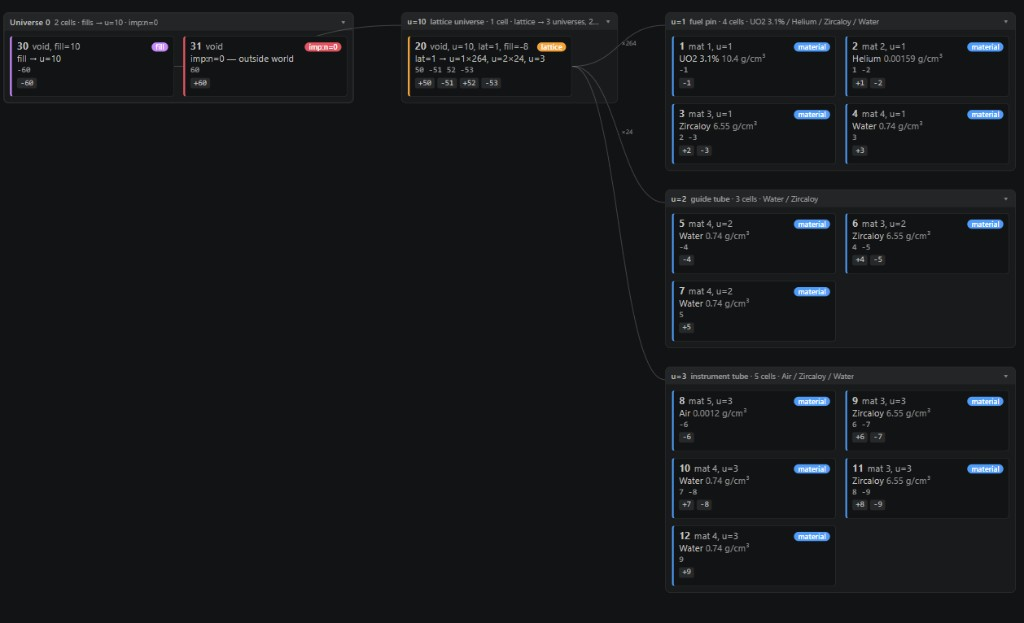
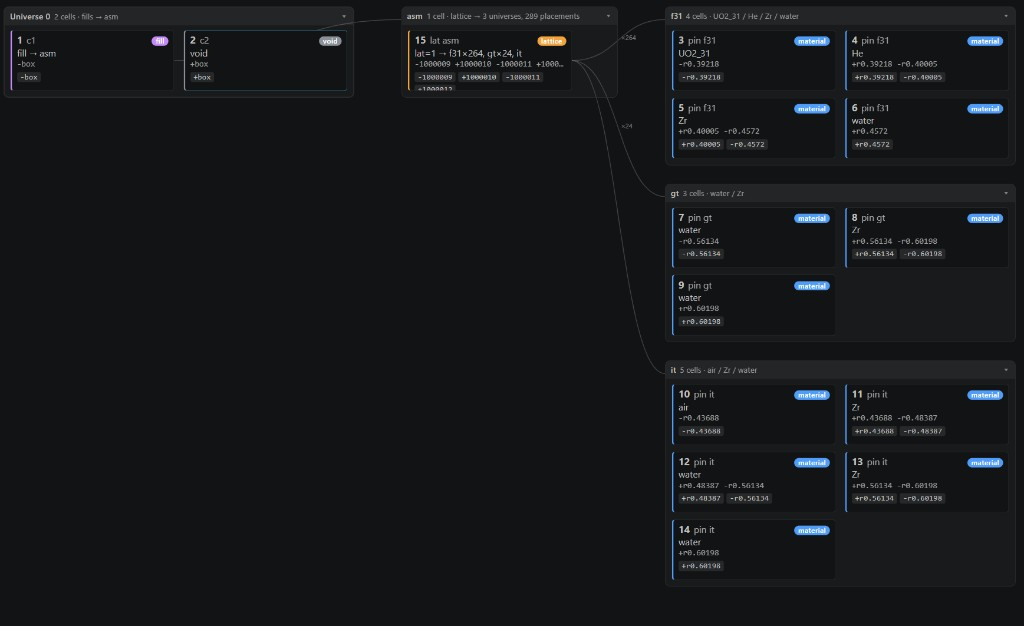
1.4.6: OpenMC exact baffle corners; right-click Results Viewer
The OpenMC Python 3D path still synthesized baffle plates from the
fuel-adjacency heuristic (X/T corner crossings on BEAVRS). Plates now
come from the _baffle(name, region) XPlane/YPlane halfspaces of the
programmatic core resolver, clamped to the lattice element like the
MCNP/Serpent/SCONE exact path; all four codes emit the identical
76-plate ring (baffleExact test extended to OpenMC).

New owen.openResultsFile command: right-click a run output (mctal,
outp and letter-bumped reruns, statepoint*.h5, Serpent _res/_his/_det
.m, .out) in the Explorer or editor to open it in the Results Viewer.

Also refreshes media/demo-cell-map.png (Cell Map screenshot).

diff --git a/src/preview/codes/openmc.ts b/src/preview/codes/openmc.ts
@@ -18,7 +18,10 @@
 import { CylinderSpec, Component, ComponentId, ParseResult, FidelityOptions, FidelityState } from '../types';
 import { componentColor, emitLayers, extractNumbers, materialColor, resolveDetail } from '../palette';
 import { planRender, DEFAULT_MAX_INSTANCES } from '../budget';
-import { BaffleNeighborhood, baffleBox, bafflePlates, emitOpenmcRadialStructure } from '../radialStructure';
+import {
+    BaffleNeighborhood, PlateConstraint, PlateRect, baffleBox, bafflePlates,
+    bafflePlatesFromRects, emitOpenmcRadialStructure, plateRectFromConstraints,
+} from '../radialStructure';
 import { buildOpenmcShellScene } from './openmcShells';
 import { looksLikeOpenmcXml, openmcMaterialLookup, parseOpenmcGeometryXml } from '../openmcGeometry';
 import { buildCsgScene } from '../csgScene';
@@ -409,6 +412,22 @@ export function parseOpenmc(text: string, opts?: FidelityOptions): ParseResult {
                 const x = x0 + c * px;
                 const y = y0 - r * py;
                 if (child.kind === 'structure' && child.subtype === 'baffle') {
+                    if (child.plates) {
+                        // Exact rectangles from the deck's own plane halfspaces
+                        // (the heuristic below drew X/T crossings at corners).
+                        const rects: PlateRect[] = [];
+                        for (const cons of child.plates) {
+                            const rect = plateRectFromConstraints(cons, px / 2, py / 2);
+                            if (rect) rects.push(rect);
+                        }
+                        if (rects.length > 0) {
+                            cylinders.push(...bafflePlatesFromRects(
+                                `${label}_r${r}c${c}_baffle`, x, y, rects,
+                                { height: collapsedHeight, zCenter: collapsedZ },
+                            ));
+                            continue;
+                        }
+                    }
                     const nb: BaffleNeighborhood = {
                         east: isAsm(r, c + 1), west: isAsm(r, c - 1),
                         north: isAsm(r - 1, c), south: isAsm(r + 1, c),
@@ -1297,7 +1316,17 @@ interface ResolvedLattice {
     lowerLeft: [number, number] | null;
 }
 interface ResolvedSkip { kind: 'skip'; }
-interface ResolvedStructure { kind: 'structure'; subtype: 'baffle' | 'other'; }
+interface ResolvedStructure {
+    kind: 'structure';
+    subtype: 'baffle' | 'other';
+    /**
+     * Exact steel-plate halfspaces read from the deck's `_baffle(name, region)`
+     * region (one constraint list per union term). Present when the region is
+     * a pure ±XPlane/±YPlane expression; placement then draws the deck's own
+     * rectangles instead of the neighborhood heuristic (the X/T corner bug).
+     */
+    plates?: PlateConstraint[][];
+}
 type ResolvedNode = ResolvedPin | ResolvedLattice | ResolvedSkip | ResolvedStructure;
 
 interface AssemblyFn {
@@ -1319,6 +1348,8 @@ interface Scope {
     rectLats: Set<string>;
     latUniverses: Map<string, string>;
     asmFns: Map<string, AssemblyFn>;
+    /** X/Y plane variables (`_bxp = openmc.XPlane(8.36662)`) for exact baffles. */
+    planes: Map<string, { axis: 'x' | 'y'; d: number }>;
     memo: Map<string, ResolvedNode>;
 }
 
@@ -1512,7 +1543,80 @@ function buildScope(text: string): Scope {
         });
     }
 
-    return { text, dicts, vars, rectLats, latUniverses, asmFns, memo: new Map() };
+    // X/Y plane variables anywhere in the file (several share a line in the
+    // BEAVRS deck: `_bxp = openmc.XPlane(8.36662);   _bxm = openmc.XPlane(-…)`).
+    const planes = new Map<string, { axis: 'x' | 'y'; d: number }>();
+    for (const m of text.matchAll(
+        /([A-Za-z_]\w*)\s*=\s*openmc\.([XY])Plane\s*\(\s*(?:[xy]0\s*=\s*)?(-?(?:\d+\.?\d*|\.\d+)(?:[eE][-+]?\d+)?)/g,
+    )) {
+        planes.set(m[1], { axis: m[2] === 'X' ? 'x' : 'y', d: Number(m[3]) });
+    }
+
+    return { text, dicts, vars, rectLats, latUniverses, asmFns, planes, memo: new Map() };
+}
+
+/** Splits on a single-character operator at bracket depth 0 (quotes respected). */
+function splitTopLevelOn(s: string, sep: string): string[] {
+    const out: string[] = [];
+    let depth = 0;
+    let quote = '';
+    let start = 0;
+    for (let i = 0; i < s.length; i++) {
+        const ch = s[i];
+        if (quote) { if (ch === quote && s[i - 1] !== '\\') quote = ''; continue; }
+        if (ch === '"' || ch === "'") { quote = ch; continue; }
+        if (ch === '[' || ch === '{' || ch === '(') depth++;
+        else if (ch === ']' || ch === '}' || ch === ')') depth--;
+        else if (ch === sep && depth === 0) { out.push(s.slice(start, i)); start = i + 1; }
+    }
+    out.push(s.slice(start));
+    return out;
+}
+
+/**
+ * Parses a baffle steel region — a union (`|`) of intersections (`&`) of
+ * signed plane halfspaces like `(+_bxM & -_bxm & -_byP) | (+_byp & …)` — into
+ * one PlateConstraint list per union term. Null when any atom is not a named
+ * X/Y plane, in which case the caller keeps the neighborhood heuristic.
+ */
+function planeRegionTerms(
+    expr: string,
+    planes: Map<string, { axis: 'x' | 'y'; d: number }>,
+): PlateConstraint[][] | null {
+    const terms: PlateConstraint[][] = [];
+    for (const rawTerm of splitTopLevelOn(expr, '|')) {
+        let term = rawTerm.trim();
+        while (term.startsWith('(') && findMatching(term, 0) === term.length - 1) {
+            term = term.slice(1, -1).trim();
+        }
+        const cons: PlateConstraint[] = [];
+        for (const atom of splitTopLevelOn(term, '&')) {
+            const m = atom.trim().match(/^([+-])\s*([A-Za-z_]\w*)$/);
+            if (!m) return null;
+            const p = planes.get(m[2]);
+            if (!p) return null;
+            cons.push({ axis: p.axis, sense: m[1] === '+' ? 1 : -1, d: p.d });
+        }
+        if (cons.length === 0) return null;
+        terms.push(cons);
+    }
+    return terms.length ? terms : null;
+}
+
+/**
+ * A baffle structure node. When `expr` is a `_baffle(name, region)` call whose
+ * region is plane-only, the node carries the exact plate constraints.
+ */
+function baffleNode(expr: string | undefined, scope: Scope): ResolvedStructure {
+    const node: ResolvedStructure = { kind: 'structure', subtype: 'baffle' };
+    if (!expr) return node;
+    const call = expr.trim().match(/^([A-Za-z_]\w*)\s*\(([\s\S]*)\)$/);
+    if (!call || !/baffle/i.test(call[1])) return node;
+    const args = splitTopLevel(call[2]);
+    if (args.length < 2) return node;
+    const terms = planeRegionTerms(args[1].trim(), scope.planes);
+    if (terms) node.plates = terms;
+    return node;
 }
 
 /** First top-level `:` in a dict-entry string (respects brackets/quotes). */
@@ -1673,7 +1777,7 @@ function resolveExpr(expr: string, scope: Scope, depth: number): ResolvedNode {
     const sub = t.match(/^([A-Za-z_]\w*)\s*\[\s*['"]([^'"]+)['"]\s*\]$/);
     if (sub && scope.dicts.has(sub[1])) {
         if (/^(BAF|baf)$/i.test(sub[1])) {
-            result = { kind: 'structure', subtype: 'baffle' };
+            result = baffleNode(scope.dicts.get(sub[1])!.get(sub[2]), scope);
         } else {
             const d = scope.dicts.get(sub[1])!;
             if (d.has(sub[2])) result = resolveExpr(d.get(sub[2])!, scope, depth + 1);
@@ -1688,7 +1792,7 @@ function resolveExpr(expr: string, scope: Scope, depth: number): ResolvedNode {
         if (call && scope.asmFns.has(call[1])) {
             result = resolveAssemblyCall(call[1], splitTopLevel(call[2]), scope) ?? { kind: 'skip' };
         } else if (call && /_baffle/i.test(call[1])) {
-            result = { kind: 'structure', subtype: 'baffle' };
+            result = baffleNode(t, scope);
         } else if (/^[A-Za-z_]\w*$/.test(t)) {
             // Bare identifier: a RectLattice, another variable, or a leaf pin.
             if (scope.rectLats.has(t) && scope.latUniverses.has(t)) {

diff --git a/src/test/suite/baffleExact.test.ts b/src/test/suite/baffleExact.test.ts
@@ -4,7 +4,8 @@
 // the exact slice was 0.45. Plates now come from each baffle universe's own
 // cell halfspaces; these tests pin that: exact rect math, no overlapping
 // plates, every plate centred on real steel, and the same 76 plates from all
-// three text codes.
+// four codes (OpenMC's come from the `_baffle(name, region)` plane regions
+// of the programmatic core resolver).
 
 import * as assert from 'assert';
 import * as fs from 'fs';
@@ -13,6 +14,7 @@ import { plateRectFromConstraints } from '../../preview/radialStructure';
 import { parseMcnp } from '../../preview/codes/mcnp';
 import { parseSerpent } from '../../preview/codes/serpent';
 import { parseScone } from '../../preview/codes/scone';
+import { parseOpenmc } from '../../preview/codes/openmc';
 import { parseDeckToModel } from '../../preview/engineDispatch';
 import { findCell } from '../../preview/mcnpEvaluate';
 import { PREBUILT_MODELS } from '../paths';
@@ -25,8 +27,11 @@ function platesOf(sc: { cylinders: CylinderSpec[] }): CylinderSpec[] {
 }
 
 function signature(plates: CylinderSpec[]): string[] {
+    // 3 decimals (10 µm): MCNP derives centres from surface offsets while
+    // OpenMC accumulates lower_left + r·pitch, and the two land ~1e-4 cm apart
+    // right on the 4-decimal rounding boundary (−162.55125) at the core edge.
     return plates
-        .map((p) => [p.x, p.y, p.halfX!, p.halfY!].map((v) => Number(v.toFixed(4))).join(','))
+        .map((p) => [p.x, p.y, p.halfX!, p.halfY!].map((v) => Number(v.toFixed(3))).join(','))
         .sort();
 }
 
@@ -59,16 +64,18 @@ suite('Baffle plates from cell halfspaces (BEAVRS X/T corner fix)', () => {
             [{ axis: 'x', sense: 1, d: 5 }, { axis: 'x', sense: -1, d: 4 }], HP, HP), null);
     });
 
-    test('BEAVRS: all three codes emit identical, non-overlapping plates on real steel', function () {
+    test('BEAVRS: all four codes emit identical, non-overlapping plates on real steel', function () {
         this.timeout(60000);
         const mcnpText = fs.readFileSync(path.join(PREBUILT_MODELS, 'beavrs_fullcore_mcnp.i'), 'utf8');
         const m = platesOf(parseMcnp(mcnpText, { maxInstances: 2_000_000 }));
         const s = platesOf(parseSerpent(fs.readFileSync(path.join(PREBUILT_MODELS, 'beavrs_fullcore_serpent.sss'), 'utf8'), { maxInstances: 2_000_000 }));
         const c = platesOf(parseScone(fs.readFileSync(path.join(PREBUILT_MODELS, 'beavrs_fullcore_scone.scone'), 'utf8'), { maxInstances: 2_000_000 }));
+        const o = platesOf(parseOpenmc(fs.readFileSync(path.join(PREBUILT_MODELS, 'beavrs_fullcore_openmc.py'), 'utf8'), { maxInstances: 2_000_000 }));
 
         assert.ok(m.length >= 70, `expected the full stepped ring, got ${m.length} plates`);
         assert.deepStrictEqual(signature(s), signature(m), 'Serpent plates must match MCNP');
         assert.deepStrictEqual(signature(c), signature(m), 'SCONE plates must match MCNP');
+        assert.deepStrictEqual(signature(o), signature(m), 'OpenMC plates must match MCNP');
 
         // No two plates may share plan area — crossing plates were the X/T bug.
         for (let i = 0; i < m.length; i++) {

diff --git a/src/extension.ts b/src/extension.ts
@@ -70,6 +70,23 @@ export function activate(context: vscode.ExtensionContext) {
             openResultsViewer(context.extensionUri);
         }),
 
+        // Explorer / editor right-click on a run output (mctal, outp, statepoint
+        // .h5, Serpent _res.m/_his.m/_det.m, SCONE .out): open it directly.
+        vscode.commands.registerCommand('owen.openResultsFile', async (uri?: vscode.Uri) => {
+            const target = uri instanceof vscode.Uri && uri.scheme === 'file'
+                ? uri
+                : vscode.window.activeTextEditor?.document.uri;
+            try {
+                await openResultsViewer(
+                    context.extensionUri,
+                    target?.scheme === 'file' ? { filePath: target.fsPath } : undefined,
+                );
+            } catch (err) {
+                const message = err instanceof Error ? err.message : String(err);
+                vscode.window.showErrorMessage(`OWEN Results: ${message}`);
+            }
+        }),
+
         vscode.commands.registerCommand('owen.validateInput', () => {
             const editor = vscode.window.activeTextEditor;
             if (editor) {

diff --git a/CHANGELOG.md b/CHANGELOG.md
@@ -59,11 +59,18 @@ and this project adheres to [Semantic Versioning](https://semver.org/spec/v2.0.0
   faces the deck leaves open (plan-view IoU 0.45 against the exact slice).
   They are now read from each baffle universe's own cell halfspaces —
   unbounded directions clamp to the lattice element, exactly as MCNP
-  truncates lattice-universe cells — and MCNP, Serpent and SCONE emit the
-  identical 76-plate stepped ring on BEAVRS, verified non-overlapping and
-  centred on the deck's SS304 by the exact engine. The adjacency heuristic
-  survives only as a fallback for decks whose plate cells the reader cannot
-  express.
+  truncates lattice-universe cells — and all four codes emit the identical
+  76-plate stepped ring on BEAVRS, verified non-overlapping and centred on
+  the deck's SS304 by the exact engine. OpenMC Python decks get theirs from
+  the `_baffle(name, region)` XPlane/YPlane regions of the programmatic core
+  resolver (this path initially shipped in 1.4.6 still on the heuristic).
+  The adjacency heuristic survives only as a fallback for decks whose plate
+  cells the reader cannot express.
+- **Right-click a run output to open it in the Results Viewer.** `mctal`,
+  `outp` (and MCNP's letter-bumped reruns), `statepoint*.h5`, Serpent
+  `_res.m` / `_his.m` / `_det.m`, and `.out` files get **OWEN: View Results
+  from This File** in the Explorer and editor context menus — no more
+  opening the viewer first and browsing to the file.
 - **`read file = material_card.i`** is one include, not a missing file named
   `file` ([#6](https://github.com/caalh/owen/issues/6)). `FILE=path`,
   `FILE = path`, `FILE path`, `ECHO`/`NOECHO`, and the older `read foo.i`
